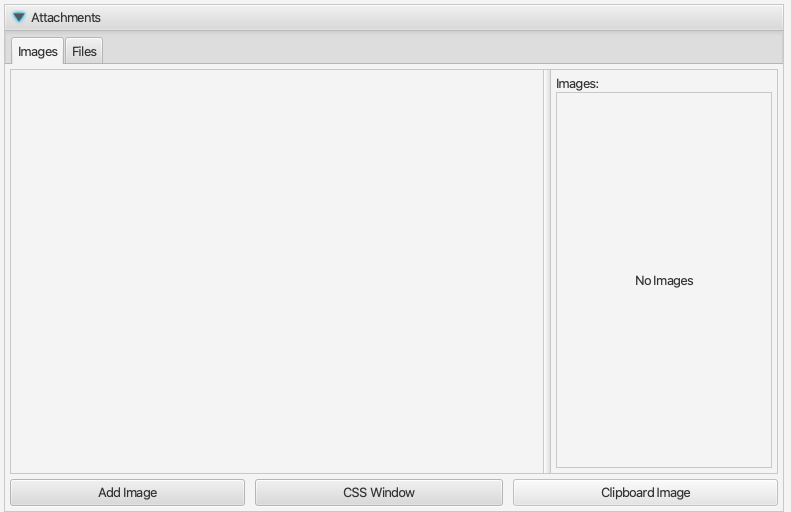
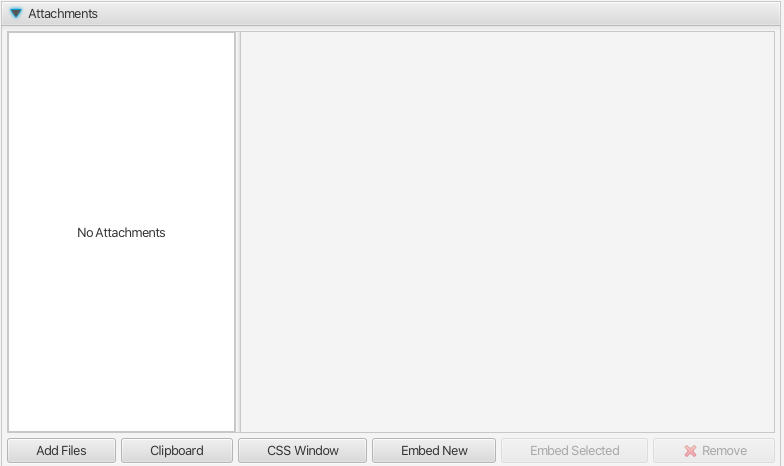
Updated Olog documentation

Changed region(s): [[0.0, 0.0, 1.0, 1.0], [0.0918, 0.4807, 0.2143, 0.5107], [0.7959, 0.5408, 0.8878, 0.5708]]

diff --git a/app/logbook/olog/ui/doc/index.rst b/app/logbook/olog/ui/doc/index.rst
@@ -59,10 +59,17 @@ When the log entry editor is launched from a context menu, a screen shot is auto
 Additional images (or other type of attachments) may be added by expanding the Attachments editor:
 
 .. image:: images/Attachments.png
-Here user may select an image file from the file system (Add Image), a screen shot of the current CS Studio "desktop"
-(CSS Window) or paste an image from the clipboard (Clipboard Image).
+Here user may attach any number of files of arbitrary types:
 
-Other type of attachments are managed in the Files tab.
+- ``Add Files`` will launch the native file browser dialog from which user may select any number of files.
+- ``Clipboard`` will attach the file - if any - currently copied to the host OS clipboard.
+- ``CSS Window`` will attach an image of the current application window.
+- ``Embed New`` will launch the dialog to embed an image to the log entry body, see below.
+- ``Embed Selected`` will embed user selected image files previously added to the list of attachments.
+
+**NOTE**: The Olog service will not accept upload of attachments larger than the configured limit of 50MB. The Olog service
+can be configured to use a different limit, but users should keep in mind that download of large attachments to
+the log viewer may incur delays in terms of UI updates.
 
 Embedded images
 ---------------
@@ -119,6 +126,20 @@ the elements of a log entry as follows:
     - ``properties=property name 1|property name 2`` find log entries containing a property named "property name 1" **or** a property named "property name 2". The pipe character is used to separate search expressions.
 
 .. _preferences:
+
+Attachment Preview
+------------------
+
+When viewing a log entry, attachments are listed in the attachments view. A preview of an image attachment is shown
+when user selects it. To see the attachment in full resolution, user may click on the preview image, or double-click
+in the attachment list.
+
+If user double-clicks on a OPI file attachment (.bob file), the application will launch that OPI in run mode.
+
+If user double-clicks on a Data Browser attachment (.plt file), the application will launch the Data Browser.
+
+Preview of non-image files is not offered in the application. However, external viewers may be configured for
+arbitrary file extensions, see preference_settings_ (framework.workbench) for more information.
 
 Preferences
 -----------
